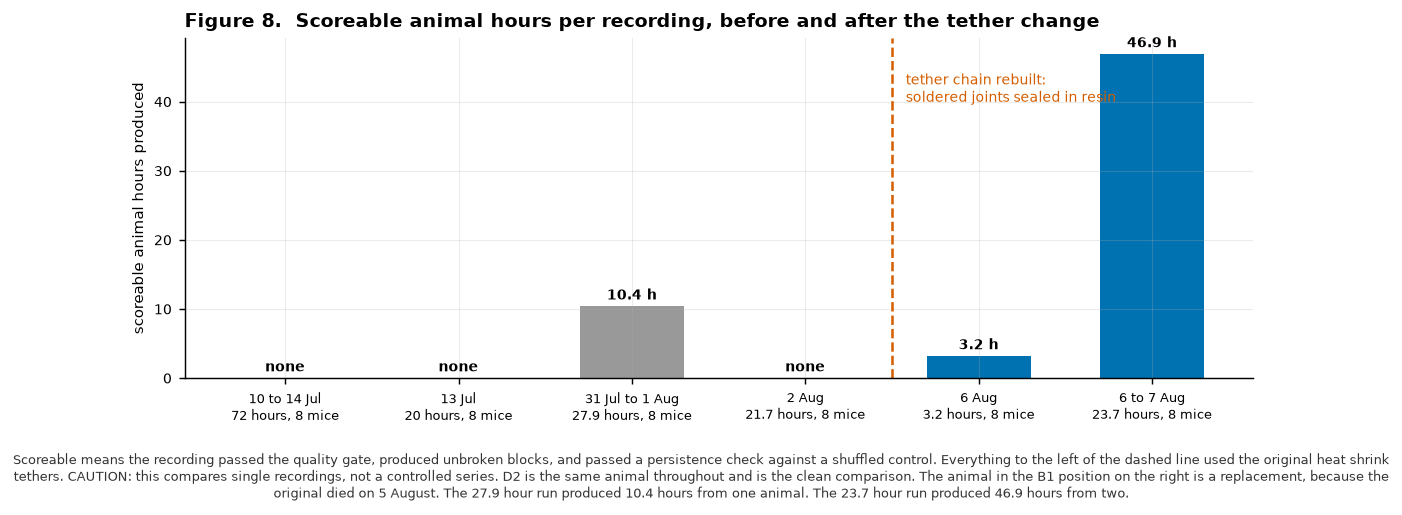
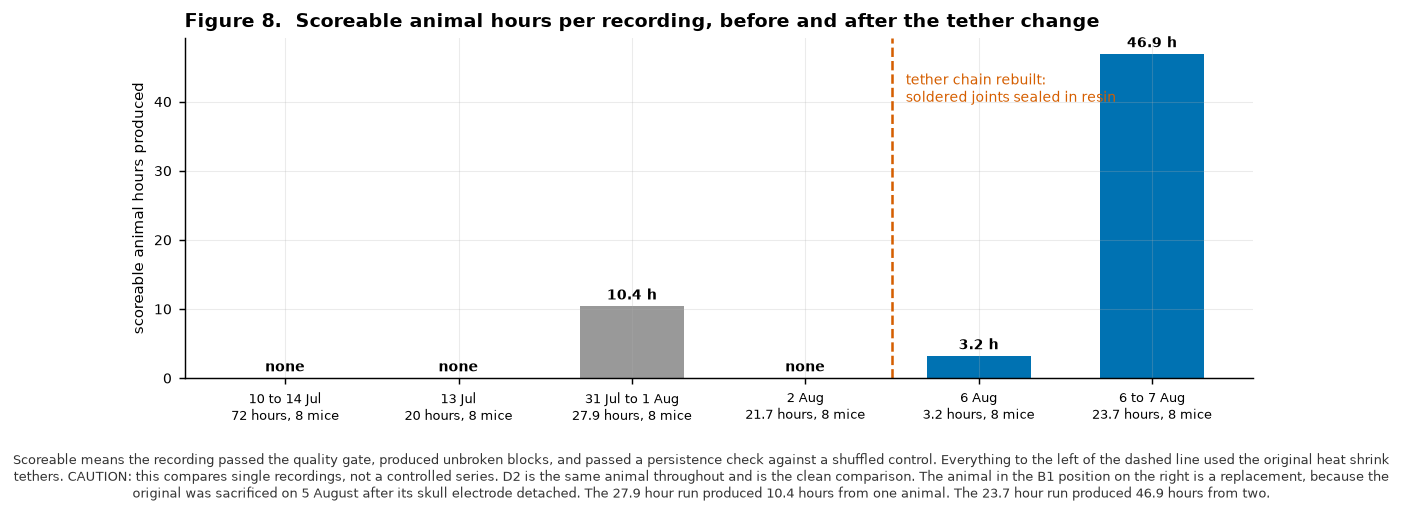
auto backup: 2026-08-09 00:13:15
Affected files:
05-experiments/active/2026-08-05-tether-comparison.md
05-experiments/attachments/2026-08-08-fig10-sleep-statistics.png
05-experiments/attachments/2026-08-08-fig8-yield-timeline.png
05-experiments/attachments/2026-08-08-fig9-hardware-statistics.png
05-experiments/completed/2026-08-08-full-update-for-professor.md
05-experiments/completed/2026-08-08-professor-update-short.md

Changed region(s): [[0.092, 0.932, 0.8894, 0.9942]]

diff --git a/05-experiments/completed/2026-08-08-full-update-for-professor.md b/05-experiments/completed/2026-08-08-full-update-for-professor.md
@@ -251,6 +251,10 @@ The reason the statistic lied is that the 40 sweep block spanned only **21 minut
 
 B1, the original, was sacrificed on 5 August because its skull electrode had detached. The replacement animal in that slot is the one referred to as B1 throughout the recording results above. That loss also permanently ended the slip ring isolation experiment.
 
+⚠ **CORRECTION LOGGED 2026-08-09.** This was written up at the time as a death under isoflurane on induction, and a welfare action was raised off the back of it. **That was wrong and both have been withdrawn across the vault.** Anaesthesia is not implicated and no check of the vaporiser, flow or warming is owed.
+
+⭐ **The corrected cause carries a finding, and it cuts slightly against the tether story, so it is stated here rather than buried.** A **skull electrode physically came away** on this animal. That is a genuine head side, mechanical failure mode, and it is the one piece of direct physical evidence of an implant level problem in the whole cohort. It does not overturn the tether conclusion, because that conclusion rests on a different animal recovering from zero to 87.9 percent usable EEG **with its implant untouched**, and on five of six failures showing shared path or cable signatures. What it does mean is that **head side attachment is not automatically safe**, and it belongs on the list of things to watch in the next cohort alongside the tether construction.
+
 ---
 
 # PART 1b — The two animals that matter, followed individually

diff --git a/05-experiments/active/2026-08-05-tether-comparison.md b/05-experiments/active/2026-08-05-tether-comparison.md
@@ -127,7 +127,7 @@ About 2 hours including swaps.
 ~/Downloads/impedance measurments/2026-08-05/
 ├── armA-original/
 ├── armB-short-soldered/
-└── armC-long-direct-noslipring/   (empty: B1 died before arm C ran)
+└── armC-long-direct-noslipring/   (empty: B1 was sacrificed before arm C ran)
 ```
 
 Folders already created. Let Allego name files however it likes during a block; do not
@@ -295,10 +295,12 @@ to match arm B; **40 sweeps**; re-run `remap.py` first.
 > **"does the new chain help"**, not **"is it the slip ring"**. The second claim is no
 > longer available at any sample size without another anaesthesia per animal.
 
-> [!warning] Welfare, before the next induction
-> An animal was lost on induction. Vaporiser setting, flow and warming should be checked
-> before D2 goes under, since D2 is the healthiest animal remaining and the one with the
-> 0.017 MΩ channel.
+> [!info] ⚠ WITHDRAWN 2026-08-09. The welfare concern here rested on a wrong cause
+> This block originally read that an animal had been lost on induction and that the
+> vaporiser, flow and warming should be checked. **B1 was not lost to anaesthesia. It was
+> sacrificed because its skull electrode had detached**, so nothing about the anaesthesia
+> setup is implicated and no check of it is owed. ⭐ The failure was **mechanical and at the
+> head**, which points the same way as every other finding on this rig.
 
 ## 12. Verdict
 

diff --git a/05-experiments/completed/2026-08-08-professor-update-short.md b/05-experiments/completed/2026-08-08-professor-update-short.md
@@ -72,6 +72,8 @@ Three further limits, stated plainly:
 
 Sample size is two animals.
 
+One counterweight belongs here rather than in a footnote. The animal that held the B1 position in July was sacrificed on 5 August because its **skull electrode physically detached**. That is a real head side failure and it is the only direct physical evidence of an implant level problem in the whole cohort. It does not overturn the tether conclusion, which rests on a different animal recovering from zero to 87.9 percent usable EEG with its implant untouched, and on five of six failures showing shared path or cable signatures. It does mean head side attachment belongs on the watch list for the next cohort alongside tether construction.
+
 ## The two open items
 
 1. **Blind human scoring and a Cohen kappa. This is the blocking item.** Three sets of 300 clips are built and verified unscored, and the decision rules were written down before any scoring began, so the outcome cannot be reinterpreted afterwards. Above 0.80 the current staging stands. Between 0.60 and 0.80 it is reported with its confusion matrix and treated as approximate. Between 0.40 and 0.60 it becomes a screening tool only. Below 0.40 automatic staging is abandoned. The REM specific value decides the REM question. The wake threshold is then placed by agreement with the human scorer, never by maximising the project's own statistics.
